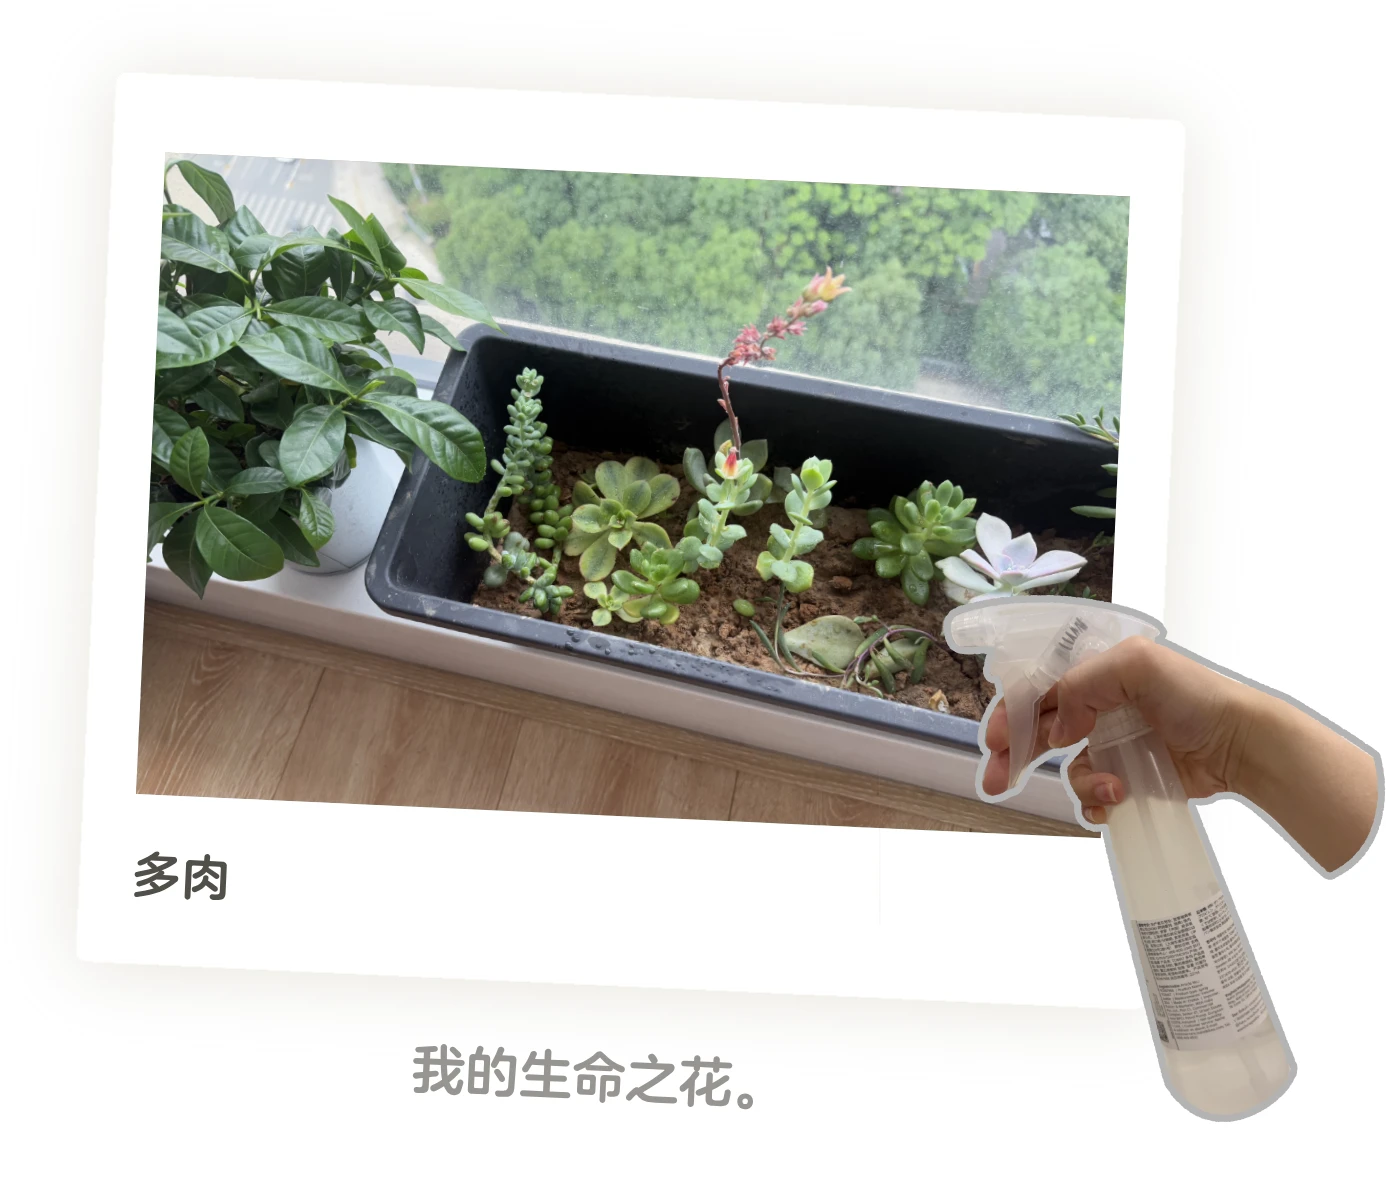
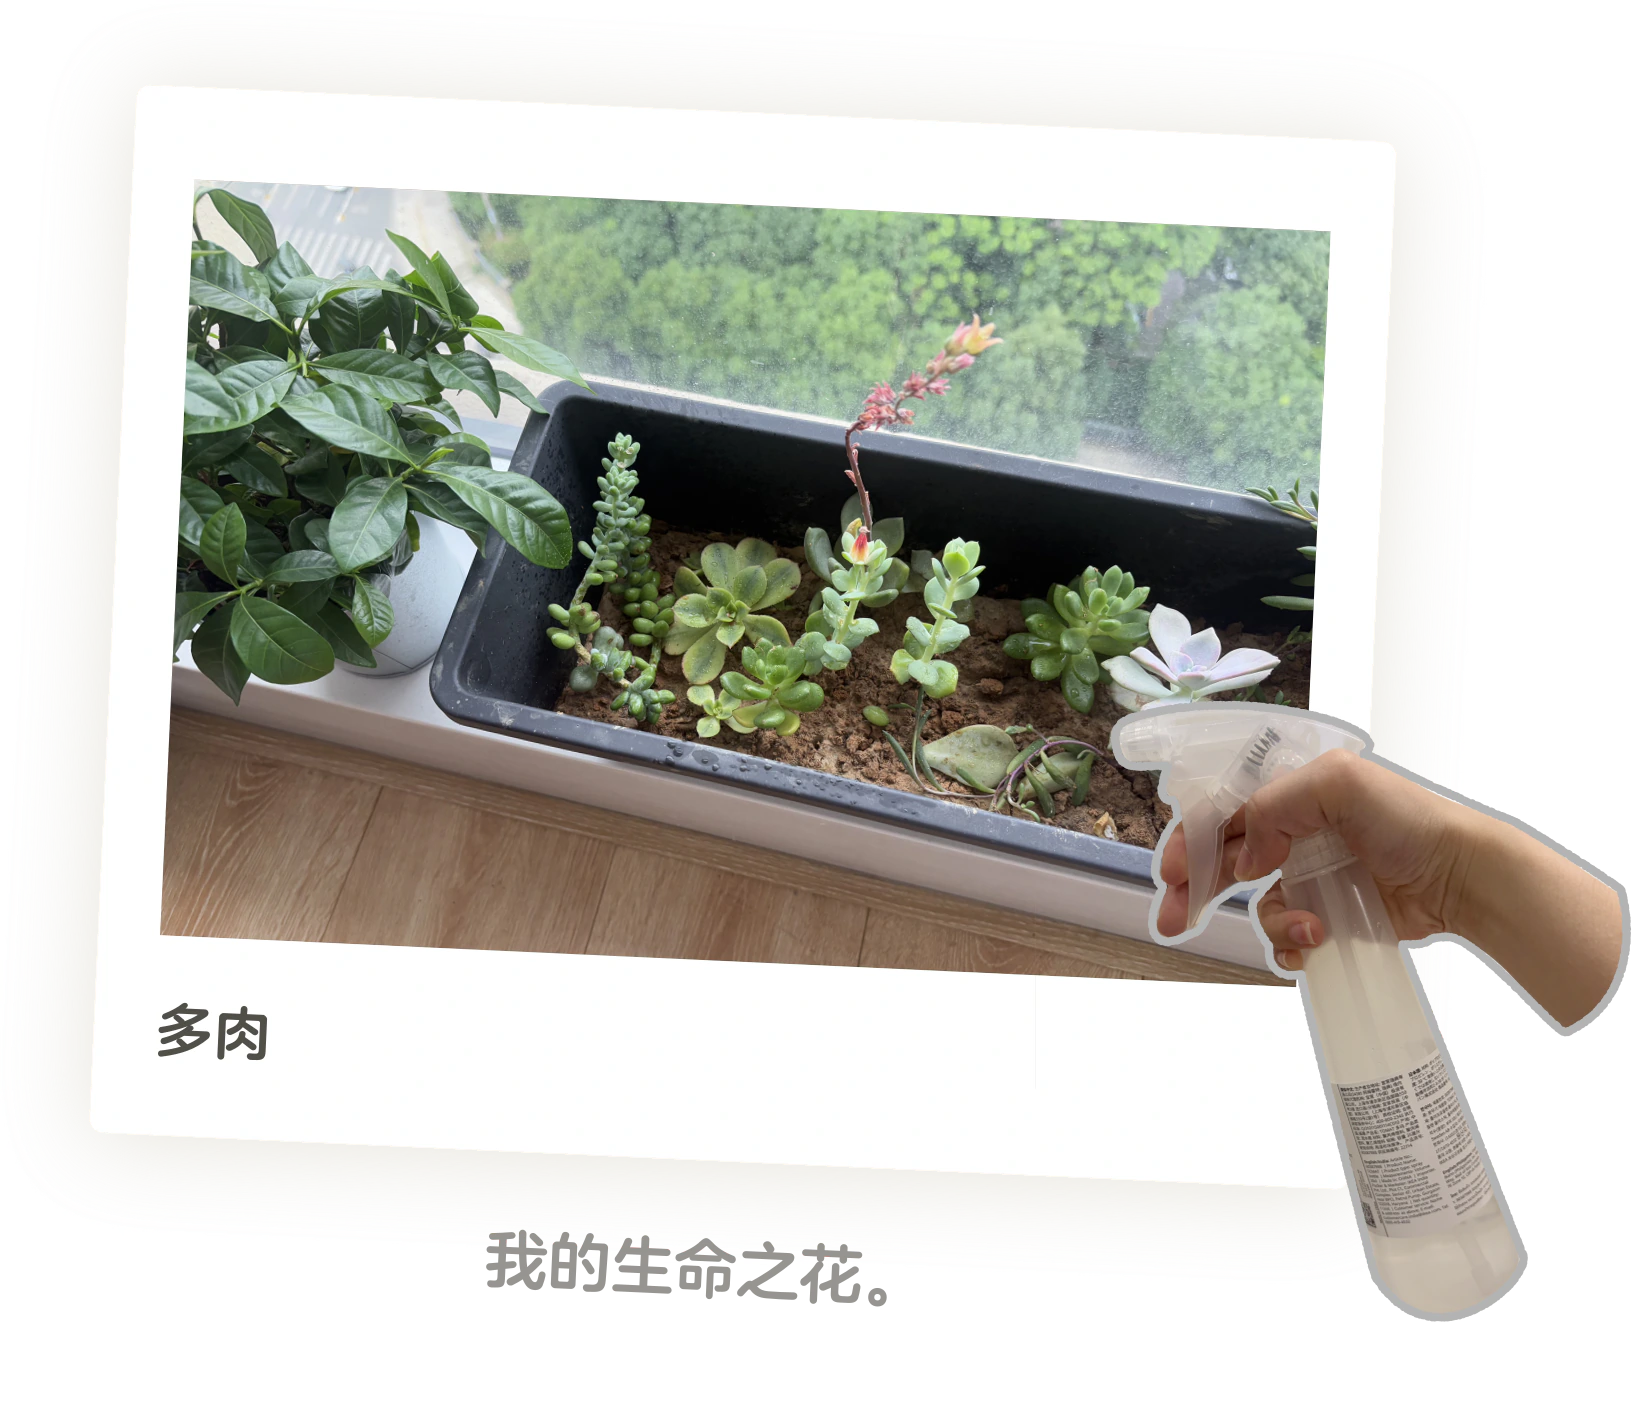
feat: 更新优化

diff --git a/styles.css b/styles.css
@@ -881,8 +881,6 @@ main::after,
   color: var(--project-cover-hover-accent);
   transform: rotate(0deg);
   box-shadow: 0 20px 36px rgba(47, 38, 33, 0.12);
-  outline: 3px dashed #b9372e;
-  outline-offset: 8px;
 }
 
 .project-cover.is-hovered {